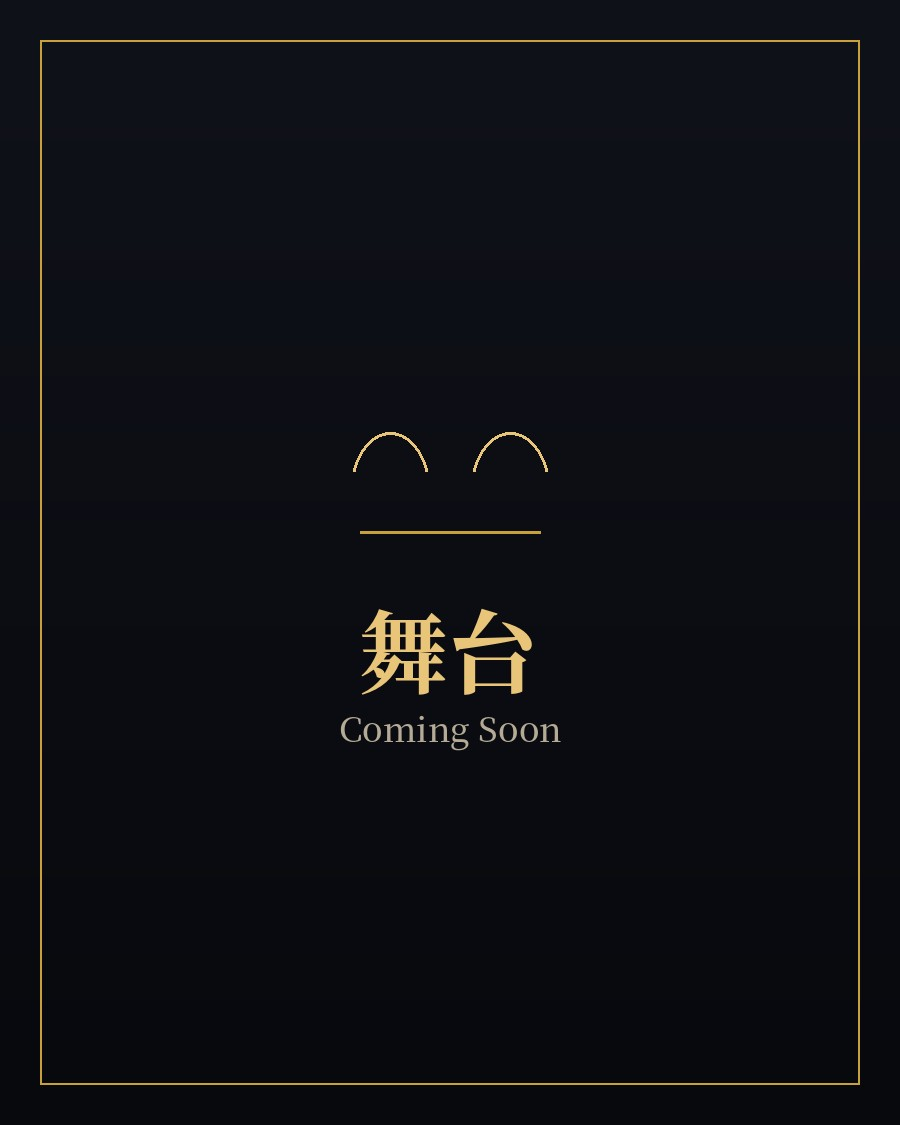
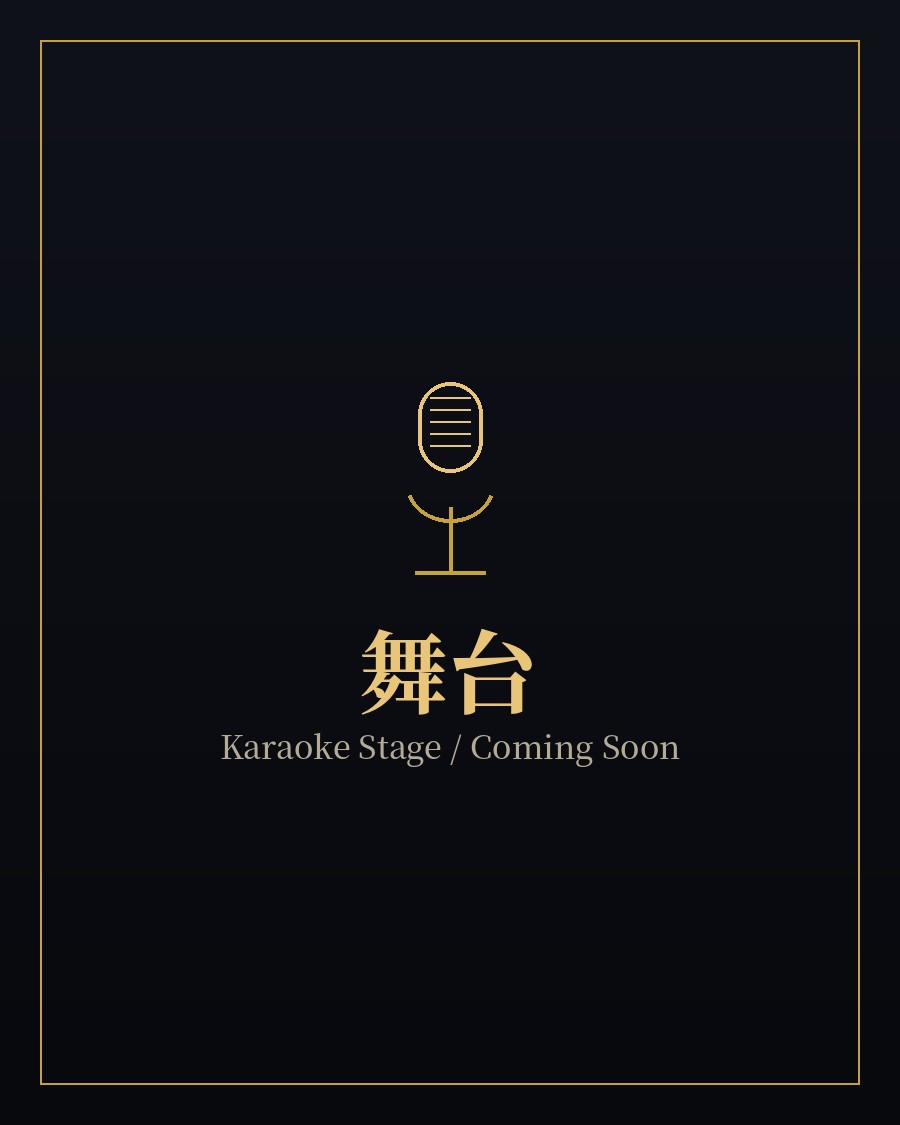
更新内容の一言メモ

Changed region(s): [[0.2489, 0.3422, 0.7467, 0.6844]]

diff --git a/index.html b/index.html
@@ -4,7 +4,7 @@
 <meta charset="UTF-8">
 <meta name="viewport" content="width=device-width, initial-scale=1.0">
 <title>PUB & SNACK IDOL(アイドルー)｜西葛西のパブ・スナック</title>
-<meta name="description" content="西葛西駅すぐ、パブ&スナック IDOL(アイドルー)。青いビロードのメインフロアと落ち着いたVIP席、カウンター席、カラオケも完備。お仕事帰りの一杯から2次会まで、寛げる大人の止まり木です。">
+<meta name="description" content="西葛西駅すぐ、パブ&スナック IDOL(アイドルー)。青いビロードのメインフロアと落ち着いたVIP席、カウンター席、DAMカラオケも完備。お仕事帰りの一杯から2次会まで、寛げる大人の止まり木です。">
 <meta name="robots" content="index, follow">
 <link rel="canonical" href="https://idol-nishikasai.vercel.app/">
 <link rel="icon" type="image/png" href="favicon.png">
@@ -13,7 +13,7 @@
 <meta property="og:type" content="website">
 <meta property="og:site_name" content="PUB & SNACK IDOL">
 <meta property="og:title" content="PUB & SNACK IDOL(アイドルー)｜西葛西のパブ・スナック">
-<meta property="og:description" content="西葛西駅すぐ、パブ&スナック IDOL(アイドルー)。青いビロードのメインフロアと落ち着いたVIP席、カウンター席、カラオケも完備。お仕事帰りの一杯から2次会まで、寛げる大人の止まり木です。">
+<meta property="og:description" content="西葛西駅すぐ、パブ&スナック IDOL(アイドルー)。青いビロードのメインフロアと落ち着いたVIP席、カウンター席、DAMカラオケも完備。お仕事帰りの一杯から2次会まで、寛げる大人の止まり木です。">
 <meta property="og:url" content="https://idol-nishikasai.vercel.app/">
 <meta property="og:image" content="https://idol-nishikasai.vercel.app/店の入口.jpg">
 <meta property="og:locale" content="ja_JP">
@@ -21,7 +21,7 @@
 <!-- Twitter Card -->
 <meta name="twitter:card" content="summary_large_image">
 <meta name="twitter:title" content="PUB & SNACK IDOL(アイドルー)｜西葛西のパブ・スナック">
-<meta name="twitter:description" content="西葛西駅すぐ、パブ&スナック IDOL(アイドルー)。青いビロードのメインフロアと落ち着いたVIP席、カウンター席、カラオケも完備。">
+<meta name="twitter:description" content="西葛西駅すぐ、パブ&スナック IDOL(アイドルー)。青いビロードのメインフロアと落ち着いたVIP席、カウンター席、DAMカラオケも完備。">
 <meta name="twitter:image" content="https://idol-nishikasai.vercel.app/店の入口.jpg">
 <link rel="preconnect" href="https://fonts.googleapis.com">
 <link rel="preconnect" href="https://fonts.gstatic.com" crossorigin>
@@ -65,10 +65,10 @@
   "servesCuisine": "Bar",
   "amenityFeature": {
     "@type": "LocationFeatureSpecification",
-    "name": "カラオケ",
+    "name": "DAMカラオケ",
     "value": true
   },
-  "description": "西葛西のパブ・スナック IDOL(アイドルー)。青いビロードのメインフロアと落ち着いたVIP席、カウンター席、カラオケをご用意。2次会にもおすすめです。"
+  "description": "西葛西のパブ・スナック IDOL(アイドルー)。青いビロードのメインフロアと落ち着いたVIP席、カウンター席、DAMカラオケをご用意。2次会にもおすすめです。"
 }
 </script>
 <style>
@@ -772,7 +772,7 @@
     <div class="about-copy">
       <p>IDOLは、東京都江戸川区・西葛西駅周辺で長くご愛顧いただいているパブ・スナックです。仕事帰りにふらりと立ち寄る一杯から、大切な人とのゆっくりした時間まで、その日の気分に合わせて過ごしていただけます。</p>
       <p>おひとり様もお気軽にご利用いただけるカウンター席と、仲間とゆっくり過ごしたい日のVIP席。同じ店の中に、少し違う二つの表情があります。どちらの席も、はじめての方にも常連の方にも、同じように寛いでいただけるようスタッフ一同ご用意しております。</p>
-      <p>盛り上がりたい夜は、自慢のカラオケでとことん歌って発散するのもおすすめです。2次会や仲間内の打ち上げにもぴったりの一軒です。</p>
+      <p>盛り上がりたい夜は、自慢のDAMカラオケでとことん歌って発散するのもおすすめです。2次会や仲間内の打ち上げにもぴったりの一軒です。</p>
       <p>「今日はちょっと疲れたな」という日にこそ、思い出していただけるお店でありたいと思っています。</p>
     </div>
   </div>
@@ -811,11 +811,11 @@
         </div>
       </div>
       <div class="room-card">
-        <img src="舞台.jpg" alt="IDOLの舞台" loading="lazy">
+        <img src="舞台.jpg" alt="IDOLのカラオケ舞台" loading="lazy">
         <div class="tag">
-          <span class="en">Stage</span>
+          <span class="en">Karaoke Stage</span>
           <h3>舞台</h3>
-          <p>盛り上がりたい夜のための舞台スペース。写真は近日公開予定です。</p>
+          <p>マイク片手に歌って盛り上がれるDAMカラオケの舞台スペース。写真は近日公開予定です。</p>
         </div>
       </div>
       <div class="room-card">
@@ -984,8 +984,6 @@
     var prevBtn = document.getElementById('carouselPrev');
     var nextBtn = document.getElementById('carouselNext');
     var activeIndex = 0;
-    var autoTimer = null;
-    var resumeTimer = null;
 
     // clone the first & last slides so stepping past either end feels seamless
     function makeClone(source){
@@ -1012,7 +1010,7 @@
       dot.type = 'button';
       dot.className = 'carousel-dot';
       dot.setAttribute('aria-label', (i + 1) + '枚目の画像へ');
-      dot.addEventListener('click', function(){ pauseAuto(); goToIndex(i); });
+      dot.addEventListener('click', function(){ goToIndex(i); });
       dotsWrap.appendChild(dot);
     });
     var dots = Array.prototype.slice.call(dotsWrap.children);
@@ -1067,19 +1065,32 @@
     }
 
     var scrollAnim = null;
+    var scrollSnapOriginal = null; // holds the CSS value while it's suspended mid-animation
     function animateScrollTo(el, targetLeft, duration, onDone){
       if(scrollAnim){ cancelAnimationFrame(scrollAnim.raf); scrollAnim = null; }
       var startLeft = el.scrollLeft;
       var diff = targetLeft - startLeft;
       if(Math.abs(diff) < 1){ if(onDone){ onDone(); } return; }
       var startTime = null;
-      function easeInOutCubic(t){ return t < 0.5 ? 4*t*t*t : 1 - Math.pow(-2*t+2,3)/2; }
+      // scroll-snap fights a script-driven scroll: it detects the in-progress position
+      // and forces an instant jump to the nearest snap point. Suspend it for the
+      // duration of the animation, then restore it once we've landed. Only capture the
+      // pre-suspend value the first time, so a rapid re-click (which cancels and starts
+      // a new animation before the previous one restored it) doesn't lose the real value.
+      if(scrollSnapOriginal === null){ scrollSnapOriginal = el.style.scrollSnapType; }
+      el.style.scrollSnapType = 'none';
+      function easeOutCubic(t){ return 1 - Math.pow(1 - t, 3); }
       function step(timestamp){
         if(startTime === null){ startTime = timestamp; }
         var progress = Math.min((timestamp - startTime) / duration, 1);
-        el.scrollLeft = startLeft + diff * easeInOutCubic(progress);
+        el.scrollLeft = startLeft + diff * easeOutCubic(progress);
         if(progress < 1){ scrollAnim.raf = requestAnimationFrame(step); }
-        else { scrollAnim = null; if(onDone){ onDone(); } }
+        else {
+          scrollAnim = null;
+          el.style.scrollSnapType = scrollSnapOriginal;
+          scrollSnapOriginal = null;
+          if(onDone){ onDone(); }
+        }
       }
       scrollAnim = { raf: requestAnimationFrame(step) };
     }
@@ -1106,19 +1117,6 @@
       }
     }
 
-    function stopAuto(){
-      if(autoTimer){ clearInterval(autoTimer); autoTimer = null; }
-    }
-    function startAuto(){
-      stopAuto();
-      autoTimer = setInterval(function(){ step(1); }, 4500);
-    }
-    function pauseAuto(){
-      stopAuto();
-      clearTimeout(resumeTimer);
-      resumeTimer = setTimeout(startAuto, 6000);
-    }
-
     var scrollTimer;
     track.addEventListener('scroll', function(){
       updateVisualActive();
@@ -1126,19 +1124,12 @@
       scrollTimer = setTimeout(updateActiveFromScroll, 80);
     }, {passive:true});
 
-    if(prevBtn){ prevBtn.addEventListener('click', function(){ pauseAuto(); step(-1); }); }
-    if(nextBtn){ nextBtn.addEventListener('click', function(){ pauseAuto(); step(1); }); }
-    track.addEventListener('pointerdown', pauseAuto);
-    track.addEventListener('touchstart', pauseAuto, {passive:true});
-
-    document.addEventListener('visibilitychange', function(){
-      if(document.hidden){ stopAuto(); } else { startAuto(); }
-    });
+    if(prevBtn){ prevBtn.addEventListener('click', function(){ step(-1); }); }
+    if(nextBtn){ nextBtn.addEventListener('click', function(){ step(1); }); }
 
     // start positioned on the first real slide (skip the prepended clone)
     track.scrollLeft = slidePosition(domSlides[1]);
     setActive(0);
-    startAuto();
   }
 
   // ---- mobile nav menu ----
